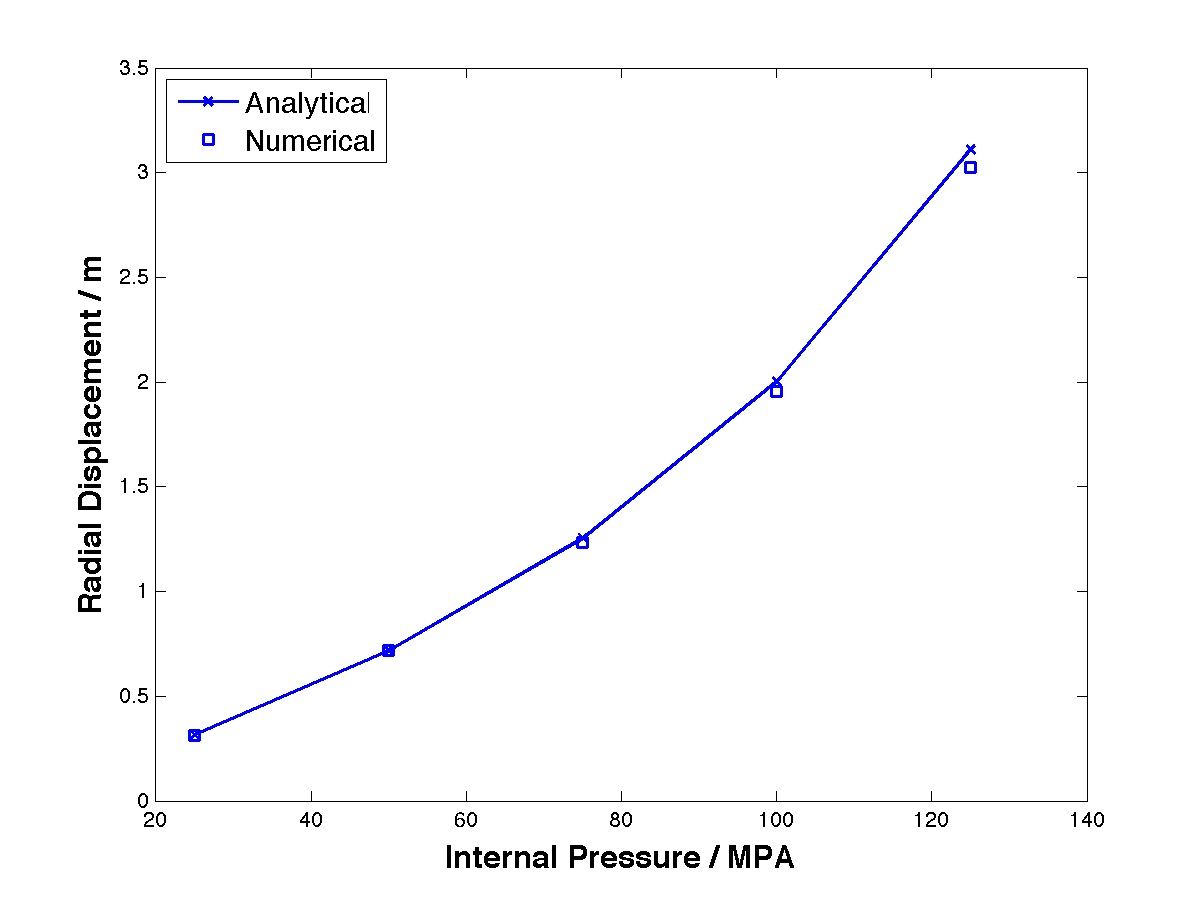
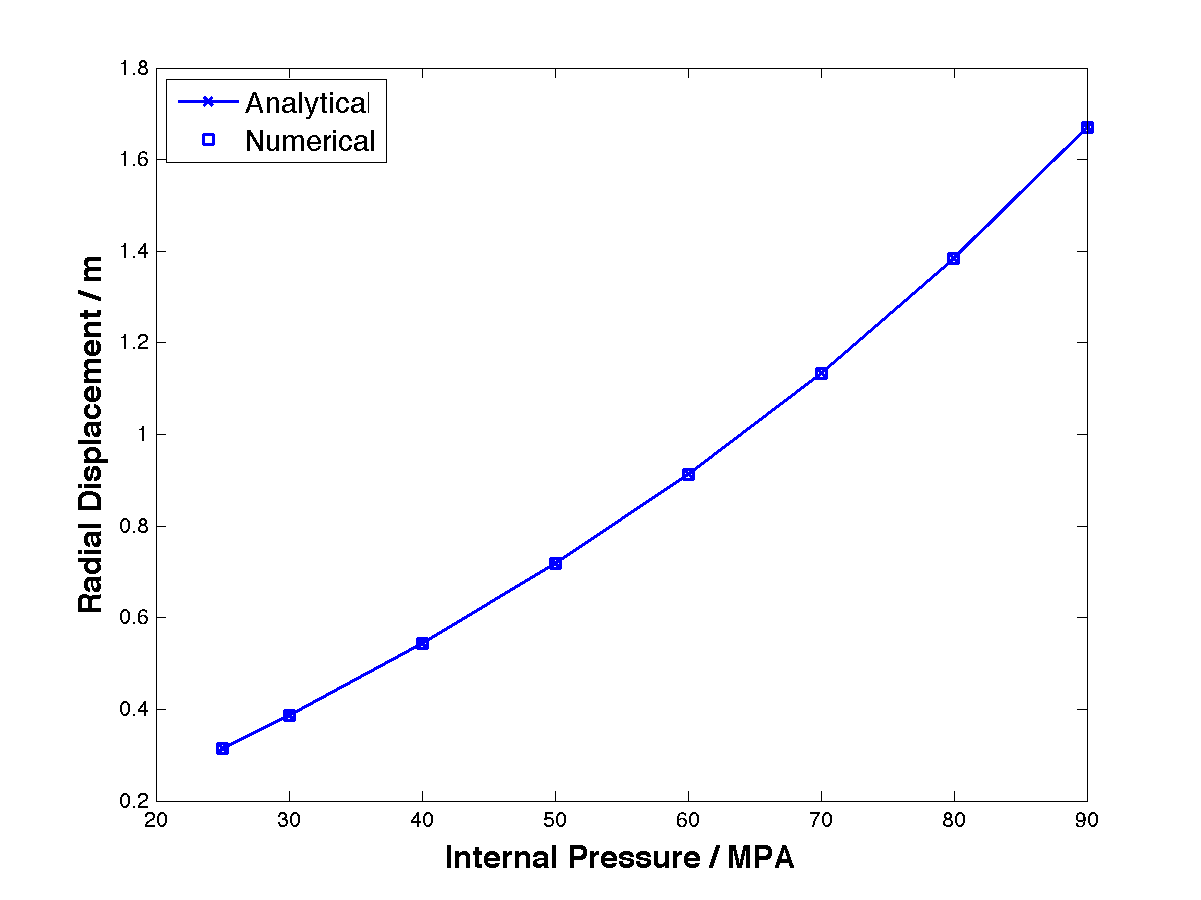
vessel test improved

diff --git a/paper/texFiles/section2.tex b/paper/texFiles/section2.tex
@@ -5,7 +5,7 @@ Yet not all biomaterials are isotropic. For example, heart muscle has strong dir
 
 %
 \subsection{Hyperelastic Models}
-Generally in continuum mechanics we use constitutive equations to describe the stress components in terms of other functions such as strain. This functional relationship distinguishes different types of materials. One important type of materials that is widely used in biomechanics is hyperelastic material. For hyperelastic material, we postulate there exists a Helmholtz free-energy function $\Psi$, which is defined per unit reference volume. If $\Psi$ is uniquely determined by deformation tensor $\bold{F}$ or other strain tensor, it is called strain-energy function. If the strain is given, the stress can be uniquely determined from the strain-energy function.  
+Generally in continuum mechanics we use constitutive equations to describe the stress components in terms of other functions such as strain. This functional relationship distinguishes different types of materials. For hyperelastic material, we postulate there exists a Helmholtz free-energy function $\Psi$, which is defined per unit reference volume. If $\Psi$ is uniquely determined by deformation tensor $\bold{F}$ or other strain tensor, it is called strain-energy function. If the strain is given, the stress can be uniquely determined from the strain-energy function.  
 
 Our discussion will be focused on rubber-like materials which are modeled as incompressible or nearly incompressible. In this case, the strain-energy function is postulated to have a unique decoupled form
 
@@ -70,7 +70,7 @@ where  $\overline{\bold{S}}$ is the fictitious PK2 stress defined as
 $\overline{\bold{S}} = 2{\partial\Psi_{iso}({\overline{\bold{C}})}} / {\partial\overline{\bold{C}}}$
 and $\mathbb{P}$ is the projection tensor defined as $\mathbb{P} = \mathbb{I} - \frac{1}{3}\bold{C}^{-1} \otimes \bold{C} $ in which $\otimes$ is the dyadic multiplication symbol and $\mathbb{I}$ is the fourth order identity tensor, i.e.,  $\mathbb{P}_{ijkl} =  \frac{1}{2}(\delta_{ik}\delta_{jl} + \delta_{il}\delta_{jk}) - \frac{1}{3} {{C}^{-1}}_{ij} {C}_{kl}$.
 
-Note that if the material is not completely incompressible, the hydrostatic pressure $p$ can be determined from the displacement even though when it is treated as an independent variable by
+Note that if the material is not completely incompressible, the hydrostatic pressure $p$ can be determined from the displacement even when it is treated as an independent variable by
 
 \begin{equation} \label{pressure}
 p = \frac{d\Psi_{vol}(J)}{dJ}
@@ -111,7 +111,8 @@ $\tilde{\mathbb{P}} = \bold{C}^{-1} \odot \bold{C}^{-1} -  \frac{1}{3}\bold{C}^{
 Therefore, once we have the stress expressions, we can obtain the elasticity tensor by substituting Equation \ref{S} into Equation \ref{C}. Note that for incompressible material, $\tilde{p} = p$ because $p$ is independent of $J$.
 
 %
-\subsection{Example I: Mooney-Rivlin Model}
+\subsection {Examples}
+\subsubsection{Mooney-Rivlin Model}
 Originally derived by Mooney [], Mooney-Rivlin model is a polynomial function of $\bar{I}_1$ and $\bar{I}_2$. The first-order Mooney-Rivlin is the most widely used to model biological tissues because of the simplicity. However it was found that the first-order Mooney-Rivlin model is sufficient to characterize the nonlinear behavior of many tissues. Successful applications include porcine liver, porcine kedney, porcine spleen [] etc. As a linear function of the invariants, it is possible to find analytical solutions for some simple cases. In numerical computation, a volumetric part is added to allow a small compressibility to make it more realistic. The Mooney-Rivlin model is written as
 
 \begin{subequations}
@@ -171,7 +172,7 @@ Once the stress is evaluated, the next step is to define the elasticity tensor $
              &= \kappa{(2J - 1)}
 \end{split}
 \end{equation}
-Substituting $\tilde{p}$ and simply evaluating $p$ from Equation \ref{pressure}, and combining the remaining terms in Equation \ref{Cvol}, $\mathbb{C}_{vol}$ becomes
+Substituting $\tilde{p}$ into Equation \ref{Cvol} and simply evaluating $p$ from Equation \ref{pressure}, $\mathbb{C}_{vol}$ becomes
 
 \begin{subequations} \label{Cvol1}
 \begin{align}
@@ -283,24 +284,24 @@ Combining Equation \ref{part11}, \ref{part21} and \ref{part31}, $\mathbb{C}_{iso
 \frac{2}{9}J^{-4/3}(\mu_1\bar{I_1} + 4\mu_2\bar{I_2}) {\overline{\bold{C}}}^{-1} \otimes {\overline{\bold{C}}}^{-1}) + \frac{2}{3}J^{-4/3}(\mu_1\bar{I_1} + 2\mu_2\bar{I_2}){\overline{\bold{C}}}^{-1} \odot {\overline{\bold{C}}}^{-1} 
 \end{split}
 \end{equation} 
-Equation \ref{Cvol1} and \ref{Ciso1} completes the derivation of elasticity tensor in reference configuration.
+Equation \ref{Cvol1} and \ref{Ciso1} completes the derivation of elasticity tensor in the reference configuration.
 
 
 
 %
-\subsection{Example II: Yeoh Model}
-First introduced in 1990 and modified in 1993 [], Yeoh model is motivated to simulate the mechanical behavior of carbon-black filled rubber vulcanizates with the typical stiffening effect in large strain domain. Yeoh model is a polynomial of $\bar{I}_1$ only.  To capture the stiffening effect of rubber in the large strain domain, It is usually truncated up to the third-order. Yeoh model is also popular in biomechanical applications. Yeoh model has been be applied to human breast tissue, porcine muscular tissue, rat lung parenchyma [] etc. It is even proven to be the best one in capturing nonlinear behaviors of some specific tissues compared with Neo-Hookean and Mooney-Rivlin model.
+\subsubsection{Yeoh Model}
+First introduced in 1990 and modified in 1993 [], Yeoh model is motivated to simulate the mechanical behavior of carbon-black filled rubber vulcanizates with the typical stiffening effect in large strain domain. Yeoh model is a polynomial of $\bar{I}_1$ only.  To capture the stiffening effect of rubber in the large strain domain, it is usually truncated up to the third-order. Yeoh model is also popular in biomechanical applications. Yeoh model has been be applied to human breast tissue, porcine muscular tissue, rat lung parenchyma [] etc. It is even proven to be the best one in capturing nonlinear behaviors of some specific tissues compared to Neo-Hookean and Mooney-Rivlin models.
 
-We use the same volumetric part to account for compressibility as in Equation \ref{vol11} or \ref{vol12}. Consequently the volumetric part of both stress and elasticity tensors are the same as Mooney-Rivlin. Therefore, we will only show the derivation of the isochoric components.
+We use the same volumetric part to account for compressibility as in Mooney-Rivlin model. Consequently the volumetric part of both stress and elasticity tensors are the same as Equation \ref{Svol1} and \ref{Cvol1}. Therefore, we will only show the derivation of the isochoric component.
 
-The isochoric part includes higher order terms, is written as
+The isochoric part includes higher order terms. It is written as
 
 \begin{equation} \label{iso2}
 \Psi_{iso} = c_1(\bar{I_1} - 3) + c_2(\bar{I_2} - 3)^2 + c_3(\bar{I_3} - 3)^3
 \end{equation}
 where $c_1$, $c_2$, $c_3$ are material constants with constraints $c_2 < 0$ and $c1 > 0$, $c_3 > 0$. The initial shear modulus is approximated by $\mu = 2c_1$.
 
-Following the same way, first derive the fictitious stress
+Following the same way, we first derive the fictitious stress
 \begin{equation} \label{Sbar2}
 \begin{split}
 \overline{\bold{S}} &= 2\frac{\partial\Psi_{iso}({\overline{\bold{C}})}}{\partial\overline{\bold{C}}} \\
@@ -317,8 +318,7 @@ Then the isochoric part of the PK2 stress is obtained
 &= J^{-2/3}[2c_1 + 4c_2(\bar{I_1} - 3) + 6c_3(\bar{I_1} - 3)^2] (\bold{I} - \frac{1}{3}\bar{I_1}{\overline{\bold{C}}}^{-1})
 \end{split}
 \end{equation}
-
-Similarly, to derive the first term in the right-hand side of Equation \ref{Ciso} we must begin with $\partial{\Psi_{iso}}/\partial{\overline{\bold{C}}}$.
+Similarly, to derive the first term on the right-hand side of Equation \ref{Ciso} we must begin with $\partial{\Psi_{iso}}/\partial{\overline{\bold{C}}}$.
 
 \begin{equation}
 \begin{split}
@@ -328,6 +328,7 @@ Similarly, to derive the first term in the right-hand side of Equation \ref{Ciso
 \end{split}
 \end{equation}
 \begin{equation}
+The second order derivative is:
 \begin{split}
 \frac{\partial^2\Psi_{iso}(\overline{\bold{C}})}{\partial\overline{\bold{C}}\partial\overline{\bold{C}}} &= 
 \bold{I} \otimes \frac{\partial[c_1 + 2c_2({\bar{I}}_1-3) + 3c_3({\bar{I}}_1-3)^2 ]}{\partial{\overline{\bold{C}}}} \\
@@ -339,7 +340,7 @@ Therefore the fictitious elasticity tensor is
 \begin{equation}
 \overline{\mathbb{C}} = 4J^{-4/3}\frac{\partial^2\Psi_{iso}(\overline{\bold{C}})}{\partial{\overline{\bold{C}}}{\partial{\overline{\bold{C}}}}} = 8J^{-4/3}[c_2 + 3c_3({\bar{I}}_1 - 3) ]\bold{I} \otimes \bold{I}
 \end{equation}
-The first term in the right-hand side of Equation \ref{Ciso} can be found as
+The first term on the right-hand side of Equation \ref{Ciso} can be found as
 
 \begin{equation} \label{part12}
 \begin{split}
@@ -366,7 +367,7 @@ Tr(J^{-2/3}\overline{\bold{S}}) &= J^{-2/3}\overline{\bold{S}}:\bold{C} \\
 &= 2c_1\bar{I}_1 + 4c_2(\bar{I_1} - 3)\bar{I}_1 + 6c_3(\bar{I}_1 - 3)^2\bar{I}_1
 \end{split}
 \end{equation}
-So that the second term in the right-hand side of Equation \ref{Ciso} is
+So that the second term on the right-hand side of Equation \ref{Ciso} is
 
 \begin{equation} \label{part22}
 \begin{split}
@@ -377,7 +378,7 @@ So that the second term in the right-hand side of Equation \ref{Ciso} is
 &-  J^{-4/3}[\frac{4}{9}c_1{\bar{I}}_1 + \frac{8}{9}c_2({\bar{I}}_1 - 3){\bar{I}}_1 + \frac{4}{3}c_3({\bar{I}}_1 - 3)^2{\bar{I}}_1]{\overline{\bold{C}}}^{-1} \otimes {\overline{\bold{C}}}^{-1} 
 \end{split}
 \end{equation}
-The third term in the right-hand-side of Equation \ref{Ciso} is obtained by using $\bold{S}_{iso}$ in Equation \ref{Siso2}
+The third term on the right-hand-side of Equation \ref{Ciso} is obtained by using $\bold{S}_{iso}$ in Equation \ref{Siso2}
 
 \begin{equation} \label{part32}
 \begin{split}
@@ -404,11 +405,11 @@ Combining \ref{part12}, \ref{part22} and \ref{part32}, we have the isochoric par
 \}
 \end{split}
 \end{equation}
-Equation \ref{Cvol1} and Equation \ref{Ciso2} gives the elasticity tensor in reference configuration.
+Equation \ref{Cvol1} and Equation \ref{Ciso2} gives the elasticity tensor in the reference configuration for Yeoh model.
 
 
 %
-\subsection{Example III: Holzapfel-Gasser-Ogden Model}
+\subsubsection{Holzapfel-Gasser-Ogden Model}
 The Holzapfel-Gasser-Ogden (HGO) model is introduced in 2000 [ ] to model the layering structure of arterial tissue. The idea is to formulate a constitutive model which incorporates some histological structure of arterial walls (i.e. fiber direction). What distinguishes HGO model from the phenomenological models is that it accounts for both the non-collagenous matrix material which is active at low pressures (modeled as isotropic) and the collagenous fibers which becomes active at high pressure (modeled as anisotropic). HGO model uses Neo-Hookean model as the isotropic ground material, and the anisotropic part consists two families of fibers represented by two pseudo-invariants $\bar{I}_4$ and $\bar{I}_6$. The directions of these fibers are represented by unit vectors $\bold{a}_{04}$ and $\bold{a}_{06}$ in the reference configuration. Specifically, the HGO model is written as
 
 \begin{subequations} \label{HGO}
@@ -487,7 +488,7 @@ in HGO model
 \frac{\partial\Psi_{aniso}}{\partial{\bar{I}_i}} = k_1(\bar{I}_i - 1)e^{k_2(\bar{I}_i - 1)^2}
 \end{equation}
 
-The isotropic part of the HGO model is simply Neo-Hookean model, which is a special case of Mooney-Rivlin model. Therefore, to obtain the isotropic contribution to the isochoric PK2 stress, we only need to set $\mu_2$ to $0$ in Equation \ref{Siso1}.
+The isotropic part of the HGO model is simply the Neo-Hookean model, which is a special case of Mooney-Rivlin model with $\mu_2 = 0$. Therefore, to obtain the isotropic contribution to the isochoric PK2 stress, we only need to set $\mu_2$ to $0$ in Equation \ref{Siso1}:
 
 \begin{equation} \label{Sisotropic}
 \bold{S}_{isotropic} = J^{-2/3}\mu_1(-\frac{1}{3}\bar{I}_1\overline{\bold{C}}^{-1} + \bold{I})
@@ -505,7 +506,7 @@ The volumetric part of PK2 stress is still the same as in Equation \ref{Svol1}.
 
 
 
-Next we derive the elasticity tensor of HGO model. For the convenience, we do not explicitly write out ${\partial\Psi_{aniso}}/{\partial{\bar{I}_i}}$ and $\partial^2{\Psi_{aniso}}/\partial{\bar{I}_i}^2$ where $i = 4, 6$. The derivatives of $\Psi_{aniso}$ with respect to $\overline{\bold{C}}$ can be easily converted to that with respect to $\bar{I}_{i}$ ($i = 4, 6$) as follows.
+Next we derive the elasticity tensor of HGO model. For the convenience, we do not explicitly write out ${\partial\Psi_{aniso}}/{\partial{\bar{I}_i}}$ and $\partial^2{\Psi_{aniso}}/\partial{\bar{I}_i}^2$ where $i = 4, 6$. The derivatives of $\Psi_{aniso}$ with respect to $\overline{\bold{C}}$ can be easily converted to that with respect to $\bar{I}_{i}$ ($i = 4, 6$) as follows,
 
 \begin{subequations} \label{convert}
 \begin{align}
@@ -524,7 +525,7 @@ Using Equation \ref{convert2}, the anisotropic contribution to the fictitious el
 &= 4J^{-4/3}\sum_{i = 4, 6}\frac{\partial^2\Psi_{aniso}}{\partial{\bar{I}_i}^2}\bold{A}_{0i} \otimes \bold{A}_{0i}
 \end{split}
 \end{equation}
-Therefore, the first term in the right-hand side of Equation \ref{Ciso} is
+Therefore, the first term on the right-hand side of Equation \ref{Ciso} is
 
 \begin{equation} \label{part13}
 \begin{split}
@@ -539,7 +540,7 @@ Therefore, the first term in the right-hand side of Equation \ref{Ciso} is
 + \frac{1}{9}\bar{I}_i^2 \overline{\bold{C}}^{-1} \otimes \overline{\bold{C}}^{-1}]
 \end{split}
 \end{equation}
-Recall Equation \ref{helper2}, the second term is
+Recall Equation \ref{helper2}, the second term on the right-hand side of Equation \ref{Ciso} is
 
 \begin{equation} \label{part23}
 \begin{split}
@@ -550,7 +551,7 @@ Recall Equation \ref{helper2}, the second term is
 (\overline{\bold{C}}^{-1} \odot \overline{\bold{C}}^{-1} - \frac{1}{3}\overline{\bold{C}}^{-1}\otimes\overline{\bold{C}}^{-1}) \\
 \end{split}
 \end{equation}
-Substituting Equation \ref{Sanisotropic} into the third term in the right-hand side of Equation \ref{Ciso}
+Substituting Equation \ref{Sanisotropic} into the third term on the right-hand side of Equation \ref{Ciso}
 
 \begin{equation} \label{part33}
 \begin{split}
@@ -575,7 +576,7 @@ Add up Equation \ref{part13}, \ref{part23} and \ref{part33} we have the anisotro
 \end{equation}
 where the $\partial\Psi_{aniso}/\partial{\bar{I}_i}$ iand $\partial^2\Psi_{aniso}/{\partial{\bar{I}_i}^2}$ ($i = 4, 6$) are given in Equation \ref{convert}.
 
-Similarly, by setting $\mu_2$ to $0$ in Mooney-Rivlin model, we could easily get the elasticity tensor of the ground material. From Equation \ref{Ciso1}
+Similarly, by setting $\mu_2$ to $0$ in Mooney-Rivlin model, we could easily get the isochoric part of the isotropic elasticity tensor. From Equation \ref{Ciso1}
 
 \begin{equation} \label{Ciso32}
 \begin{split}

diff --git a/paper/texFiles/section3.tex b/paper/texFiles/section3.tex
@@ -11,9 +11,9 @@ The variational approach is the cornerstone for finite element methods. The most
 \delta W_{int}(\bold{u}, \delta\bold{u}) &= \int_\Omega \boldsymbol\sigma : \delta\bold{e}dV = \int_{\Omega_{0}}\bold{S} : \delta\bold{E}dV \label{Wint} \\
 \delta W_{ext}(\bold{u}, \delta\bold{u}) &= \int_\Omega\bold{b}\cdot\delta\bold{u}dV +  \int_{\partial\Omega}\overline{\bold{t}}\cdot\delta{\bold{u}}dS = \int_\Omega\bold{B}\cdot\delta\bold{u}dV +  \int_{\partial{\Omega_0}}\overline{\bold{T}}\cdot\delta{\bold{u}}dS \label{Wext1}
 \end{align}
-The internal work is done by Cauchy stress $\boldsymbol\sigma$ along the virtual Euler-Almansi strain $\delta\bold{e}$ about region $\Omega$ and the external work is done by the body force $\bold{b}$ and the surface traction $\overline{\bold{t}}$, along the virtual displacement $\delta{u}$ about region $\Omega$ and its boundary surface $\partial\Omega$ respectively. They are assumed be mapped to the reference configuration. 
+The internal work is done by Cauchy stress $\boldsymbol\sigma$ along the virtual Euler-Almansi strain $\delta\bold{e}$ about region $\Omega$ and the external work is done by the body force $\bold{b}$ and the surface traction $\overline{\bold{t}}$, along the virtual displacement $\delta{\bold{u}}$ about region $\Omega$ and its boundary surface $\partial\Omega$ respectively. They are assumed be mapped to the reference configuration. 
 
-If the external loading is given as fixed traction in reference configuration, the virtual external work is constant. Example for this type of loading is tension test where the external force with respect to reference configuration is given as a constant. Another type of loading, which is more frequently encountered in biomechanics is the fixed pressure loading.
+If the external loading is given as fixed traction in reference configuration, the virtual external work is constant. An example for this type of loading is a tension test where the external force with respect to reference configuration is given as a constant. Another type of loading, which is more frequently encountered in biomechanics is the fixed pressure loading.
 In this case, the pressure on the current boundary surface is constant, i.e. $\overline{\bold{t}} = \boldsymbol{\sigma{n}} = p\bold{n}$ where $p$ is a given constant, $\bold{n}$ is the unit normal vector of the current surface. The external virtual work done by the constant pressure $p$ along the virtual displacement $\delta{\bold{u}}$ is defined by
 \begin{align} 
 \delta{W_{ext}}(\bold{u}, \delta{\bold{u}}) &= p\int_{\partial\Omega} \bold{n}\cdot\delta{\bold{u}}dS \label{Wext2}
@@ -44,7 +44,7 @@ In other words, we require the first variation of the total energy potential $\d
 \begin{equation} \label{potential}
 \delta\Pi(\bold{u}, \delta\bold{u}) =\delta\Pi_{int}(\bold{u}) + \delta\Pi_{ext}(\bold{u}) = 0
 \end{equation}
-Here we adopt the convention in Holzapfel using $D_{\Delta{x}}f(x, y, \textit{etc.})$ to represent the directional derivative of $f$ as a function of $(x, y, \textit{etc.})$ along the direction of $\Delta{x}$ where $x$, $y$, \textit{etc.} can be scalar or tensor of any other order. The directional derivative $D_{\Delta{x}}f(x, y, \textit{etc.})$ is equivalent to the first variation of functional $f$ with respect to $x$.
+Here we adopt the convention in Holzapfel using $D_{\Delta{x}}f(x, y, \textit{etc.})$ to represent the directional derivative of $f$ as a function of $(x, y, \textit{etc.})$ along the direction of $\Delta{x}$ where $x$, $y$, \textit{etc.} can be a scalar or a tensor of any other order. The directional derivative $D_{\Delta{x}}f(x, y, \textit{etc.})$ is equivalent to the first variation of functional $f$ with respect to $x$.
 Equation \ref{equilibrium} or \ref{potential} is the equation we want to solve in the displacement-based formulation. It is easy to prove the equivalence between the principle of directional derivative of the potential energy and the virtual work
 
 \begin{equation}
@@ -66,14 +66,14 @@ In displacement-based formulation, we want to solve Equation \ref{equilibrium}. 
 \begin{equation} \label{Kint}
 D^2_{\delta\bold{u}, \Delta\bold{u}}\Pi_{int}(\bold{u}) = D_{\Delta{\bold{u}}}\delta{W_{int}}(\bold{u}, \delta{\bold{u}}) = \int_{\Omega_0}(\nabla_{\bold{X}}\delta\bold{u} : \nabla_{\bold{X}}\Delta\bold{u}\bold{S} + \bold{F}^T\nabla_{\bold{X}}\delta{\bold{u}} : \mathbb{C} : \bold{F}^T \nabla_{\bold{X}}\Delta\bold{u})dV
 \end{equation}
-The first part of the integration is called the initial stress contribution since the $\bold{S}$ characterizes the initial stress at every increment. The second part is called material contribution because the $\mathbb{C}$ characterize the material response to the displacement.
+The first term in the integration is called the initial stress contribution since the $\bold{S}$ characterizes the initial stress at every increment. The second term is called material contribution because the $\mathbb{C}$ characterize the material response to the displacement.
 
 As discussed in Section \ref{PVW}, for the first type of external loading as in Equation \ref{Wext1}, the external work is independent of the displacement. So the variation vanishes.
 
 \begin{equation} \label{Kext}
 D^2_{\delta\bold{u}, \Delta\bold{u}}\Pi_{ext}(\bold{u}) = - D_{\Delta{\bold{u}}}\delta{W_{ext}}(\bold{u}, \delta{\bold{u}}) = 0
 \end{equation}
-But for the second type of loading as in Equation \ref{Wext2}, the external work is changing with the current configuration due to the change of normal $\bold{n}$ and integration area $ds$. 
+But for the second type of loading as in Equation \ref{Wext2}, the external work is changing with the current configuration due to the change of normal $\bold{n}$ and integration boundary $d\bold{s}$. 
 
 Let $\bold{x}$ be an arbitrary point on the surface of a 3D element, $\xi$ and $\eta$ be the parent coordinates on that surface. $\Omega_{\xi}$ represents the parameter plane characterized by $\xi$ and $\eta$. Then the unit normal vector of that surface $\bold{n}$ as well as the infinite small area $ds$ can be expressed as
 
@@ -112,7 +112,7 @@ D_{\delta\bold{u}, \Delta\bold{u}}^2 \Pi(\bold{u}, p)  && D_{\delta\bold{u}, \De
 D_{\delta\bold{u}}\Pi(\bold{u}, p) \\ D_{\delta{p}}\Pi(\bold{u}, p) 
 \end{bmatrix}
 \end{equation}
-We inspect the righthand side first. For incompressible material, recall Equation \ref{energy_split} and \ref{Lagrange}, the energy potential is expressed as
+We inspect the righthand side first. For incompressible material, recall Equations \ref{energy_split} and \ref{Lagrange}, the energy potential is expressed as
 \begin{equation} \label{split3}
 \Pi_{int}(\bold{u}, p) = \int_{\Omega_0} \left[ p(J(\bold{u}) - 1) + \Psi_{iso}(\overline{\bold{C}}(\bold{u}))\right] dV
 \end{equation}
@@ -149,7 +149,7 @@ D_{\delta{p}, \Delta{p}}^2 \Pi(\bold{u}, p) = 0
 \end{equation}
 Inserting Equation \ref{rhs1} to \ref{lhs4} into Equation \ref{linear} we can obtain a symmetric tangent stiffness matrix. Since $p$ is arbitrary for incompressible material, we need additional reference values for it to solve \ref{equilibrium}.
 
-While for nearly incompressible material, Equation \ref{lhs4} and \ref{rhs2} need to be modified. Recall Equation \ref{penalty} and \ref{pressure}, the incompressibility condition is no longer strictly enforced. Equation \ref{rhs2} is relaxed to
+While for nearly incompressible material, the incompressibility condition is no longer strictly enforced. Recall Equation \ref{penalty} and \ref{pressure}, Equation \ref{rhs2} is relaxed to
 
 \begin{equation} \label{relation}
 D_{\delta{p}}\Pi(\bold{u}, p) = \int_{\Omega_0}\left(  \frac{dG(J(\bold{u}))}{dJ} - \frac{p}{\kappa} \right)\delta{p}dV = 0

diff --git a/paper/texFiles/section4.tex b/paper/texFiles/section4.tex
@@ -1,9 +1,9 @@
 \section{Tests}
-In this section, we present two sets of test cases to validate the results we obtained with the formulations we derived. The first case is the biaxial tension test which is used to calibrate material constants. For isotropic materials, the analytical solution is easy to find. The second case is the expansion of a vessel, which is a very representative application in the field of biomechanics.  
+In this section, we present two sets of test cases to validate the results we obtained with the formulations we derived. The first case is the biaxial tension test which is used to calibrate material constants. For isotropic materials, the analytical solution is easy to find if we assume the material is incompressible. The second case is the expansion of a vessel, which is a very representative application in the field of biomechanics.  
 
 \subsection{Biaxial Tension Test}
 \label{biaxial_tension_test}
-A long bar loaded equally in two directions with fixed tractions is considered. The section is a $1$ $m^2$ square. Define the stretch $\lambda$ as the ratio between the deformed length to the original length, then for isotropic incompressible material, the stress is easy to find.
+A long bar loaded equally in two directions with fixed tractions is considered. The section is a $1$ $m^2$ square. Define the stretch $\lambda$ as the ratio between the deformed length to the original length, then for isotropic incompressible material, the stress is expressed as:
 \begin{equation}
 S_{11} = S_{22} = 2(1 - {\lambda}^{-6})(\frac{\partial\Psi_{iso}}{\partial\bar{I}_1} + {\lambda}^2\frac{\partial\Psi_{iso}}{\partial\bar{I}_2}), \quad S_{33} = 0
 \end{equation}
@@ -38,7 +38,7 @@ Figure \ref{fig:biaxial1} shows the results of the theoretical calculation and n
 \label{fig:biaxial1}
 \end{figure}
 
-To demonstrate the anisotropy of HGO model, we compare the stretches in two directions in the biaxial tension test. We use the material parameters calibrated from the media layer of artery in [ ] but only one direction is strengthened. That is, both two families of fibers are arranged in the same direction. The material parameters are $\mu_0 = 3$ KPa, $k_1 = 2.3632$ KPa and $k_2 = 0.8393$. We change the direction of the fibers which measured by the angle from the $x$ direction denoted as $\alpha$. 
+To demonstrate the anisotropy of HGO model, we compare the stretches in two directions in the biaxial tension test. We use the material parameters calibrated from the media layer of artery in [ ] but only one direction is strengthened. That is, both two families of fibers are arranged in the same direction. The material parameters are $\mu_1 = 3$ KPa, $k_1 = 2.3632$ KPa and $k_2 = 0.8393$. We change the direction of the fibers which measured by the angle from the $x$ direction denoted as $\alpha$. 
 
 We define the stretch ratio $\lambda$ in Equation \ref{stretchratio}, and plot the stretch ratio against the nominal stress in Figure \ref{fig:biaxial2}. Just as what we expect, the stretch ratio at $\alpha = 0^\circ$ is the same as $\alpha = 90^\circ$, and similarly for $\alpha = 30^\circ$ and $\alpha = 60^\circ$. 
 $\lambda_y$ is greater than $\lambda_x$ when $0^\circ < \alpha < 45^\circ$ since the $x$ direction is strengthened more. As the angle gets larger, $\lambda_x$ becomes greater too. While $\alpha = 45^\circ$ two directions become symmetric again.
@@ -61,7 +61,7 @@ $\lambda_y$ is greater than $\lambda_x$ when $0^\circ < \alpha < 45^\circ$ since
 
 \subsection{Cylindrical Pressure Vessel}
 \label{pressure_vessel}
-As a typical application, we consider an artery under lumen pressure. The vessel has an internal radius of $R_i = 0.6$ mm and an external radius of $R_o = 0.9$ mm. Only a quarter of vessel is considered with plain strain assumption. First we model the vessel in Mooney-Rivlin model. The material parameters used are $\mu_1 = 160$ MPa and $\mu_2 = 40$ MPa. $\kappa$ is set to $1 \times 10^5$ MPa to make the material nearly incompressible. We compare the radial displacement, hoop stress, radial stress, and axial stress with the analytical solutions of incompressible Mooney-Rivlin model under an internal pressure of $p_i = 50$ MPa. The analytical solutions are found in [] as follows 
+As a typical application, we consider a vessel under lumen pressure. The vessel has an internal radius of $R_i = 7$ m and an external radius of $R_o = 18.625$ m. Only a quarter of vessel is considered with plain strain assumption. First we model the vessel with Mooney-Rivlin model. The material parameters used are $\mu_1 = 160$ MPa and $\mu_2 = 40$ MPa. $\kappa$ is set to $1 \times 10^5$ MPa to make the material nearly incompressible. We compare the radial displacement, hoop stress, radial stress, and axial stress with the analytical solutions of incompressible Mooney-Rivlin model under an internal pressure of $p_i = 50$ MPa. The analytical solutions are found in [] as follows 
 \begin{subequations}
 \begin{align}
 p_i &= 2(\mu_1 + \mu_2)(log\frac{{R_i}^2 + b}{{R_o}^2 + b} - 2log\frac{R_i}{R_o} +
